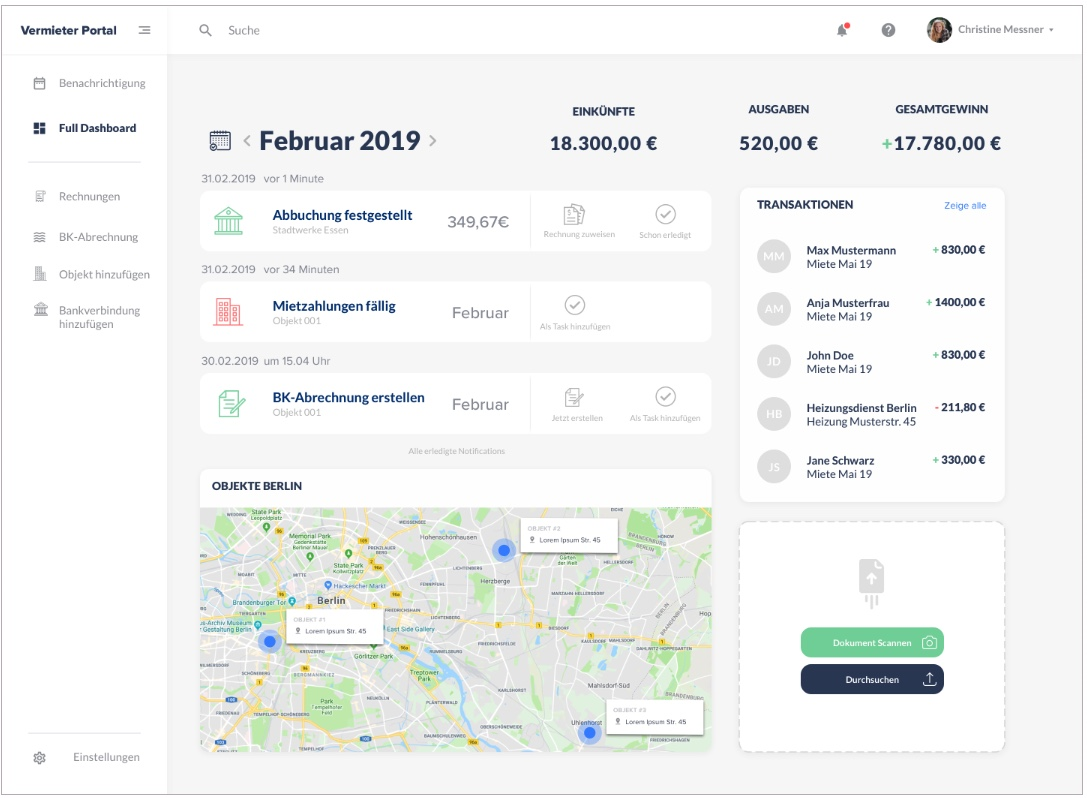
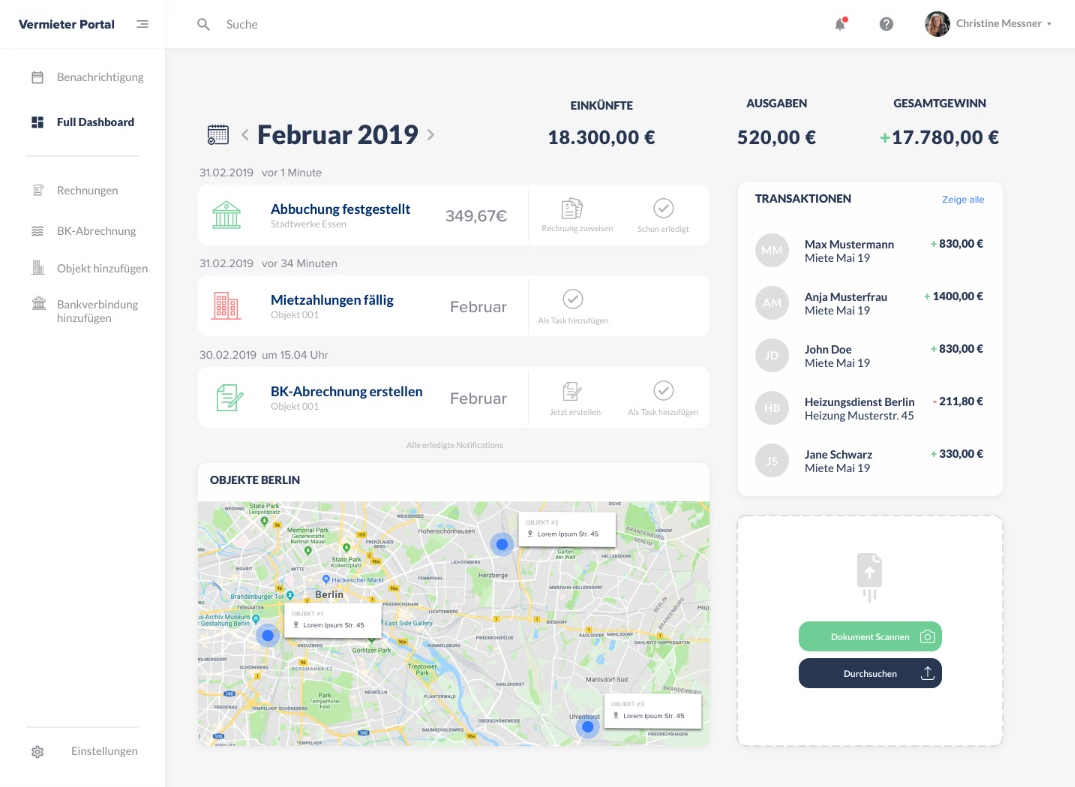
Add some shadows for distinction of elements

diff --git a/index.html b/index.html
@@ -76,13 +76,13 @@
         </div>
       <div>
 
-      <div class="row pt-4">
+      <div class="row pt-4 pb-2">
         <div class="col-10 pt-4 order-last pt-md-0 order-md-first col-md-3 offset-1 d-flex justify-content-center align-items-center">
           <h3 class="text-center d-none d-md-block">Mit dem Dashboard behalten Sie den Überblick</h3>
           <h4 class="text-center d-md-none">Mit dem Dashboard behalten Sie den Überblick</h3>
         </div>
         <div class="col-10 offset-1 col-md-6">
-          <img class="img-fluid" src="demo_screen.jpeg" alt="Dashboard">
+          <img class="img-fluid shadow" src="demo_screen.jpeg" alt="Dashboard">
         </div>
       </div>
 
@@ -94,7 +94,7 @@
         </div>
       </div>
 
-      <div class="row py-4" style="background-color: #f6f6f6">
+      <div class="row py-4 shadow" style="background-color: #f6f6f6">
         <div class="col-10 offset-1 pt-sm-0 col-sm-6 offset-sm-0 col-lg-4 mt-4 d-flex flex-column align-items-center">
           <i class="pb-4 fas fa-search-dollar fa-5x"></i>
           <h4 class="px-4 text-center">Bankanbindung</h4>
@@ -149,7 +149,7 @@
 
       <div class="row p-4 justify-content-center" id="pricing">
         <div class="col-10 col-sm-8 col-lg-3 mt-2 mt-lg-0">
-          <div class="card">
+          <div class="card shadow">
             <div class="card-body">
               <h2 class="card-title" style="font-weight: bold">LITE</h2>
               <!-- <h6 class="card-subtitle mb-2 text-muted">Card subtitle</h6>
@@ -159,11 +159,11 @@
                 <span style="font-size: 240%;">1€</span><span style="font-size: 80%">/Mo</span>
               </div>
               <div class="d-flex flex-column">
-                <span style="color: #000000"><i class="pr-1 far fa-check-circle" style="color: #249d3c"></i>Transparenz von Einnahmen und Ausgaben</span>
-                <span style="color: #000000"><i class="pr-1 far fa-check-circle" style="color: #249d3c"></i>Dashboard mit allen relevanten Informationen</span>
-                <span style="color: #999999"><i class="pr-1 far fa-circle"></i>Digitale Dokumentenablage</span>
-                <span style="color: #999999"><i class="pr-1 far fa-circle"></i>Alarme und Benachrichtigungen</span>
-                <span style="color: #999999"><i class="pr-1 far fa-circle"></i>Unterstützung bei der Betriebskostenabrechnung</span>
+                <span style="color: #000000"><i class="pr-1 far fa-check-circle" style="color: #249d3c"></i>Bankanbindung</span>
+                <span style="color: #000000"><i class="pr-1 far fa-check-circle" style="color: #249d3c"></i>Dashboard</span>
+                <span style="color: #999999"><i class="pr-1 far fa-circle"></i>Dokumentenverwaltung</span>
+                <span style="color: #999999"><i class="pr-1 far fa-circle"></i>Benachrichtungen</span>
+                <span style="color: #999999"><i class="pr-1 far fa-circle"></i>Betriebskostenabrechnung</span>
                 <span style="color: #999999"><i class="pr-1 far fa-circle"></i>Digitaler Concierge</span>
               </div>
               <p></p>
@@ -174,7 +174,7 @@
 
         
         <div class="col-10 col-sm-8 col-lg-3 mt-2 mt-lg-0">
-          <div class="card">
+          <div class="card shadow">
             <div class="card-body">
               <h2 class="card-title" style="font-weight: bold">PRO</h2>
               <!-- <h6 class="card-subtitle mb-2 text-muted">Card subtitle</h6>
@@ -184,11 +184,11 @@
                 <span style="font-size: 240%;">2,50€</span><span style="font-size: 80%">/Mo</span>
               </div>
               <div class="d-flex flex-column">
-                <span style="color: #000000"><i class="pr-1 far fa-check-circle" style="color: #249d3c"></i>Transparenz von Einnahmen und Ausgaben</span>
-                <span style="color: #000000"><i class="pr-1 far fa-check-circle" style="color: #249d3c"></i>Dashboard mit allen relevanten Informationen</span>
-                <span style="color: #000000"><i class="pr-1 far fa-check-circle" style="color: #249d3c"></i>Digitale Dokumentenablage</span>
-                <span style="color: #000000"><i class="pr-1 far fa-check-circle" style="color: #249d3c"></i>Alarme und Benachrichtigungen</span>
-                <span style="color: #999999"><i class="pr-1 far fa-circle"></i>Unterstützung bei der Betriebskostenabrechnung</span>
+                <span style="color: #000000"><i class="pr-1 far fa-check-circle" style="color: #249d3c"></i>Bankanbindung</span>
+                <span style="color: #000000"><i class="pr-1 far fa-check-circle" style="color: #249d3c"></i>Dashboard</span>
+                <span style="color: #000000"><i class="pr-1 far fa-check-circle" style="color: #249d3c"></i>Dokumentenverwaltung</span>
+                <span style="color: #000000"><i class="pr-1 far fa-check-circle" style="color: #249d3c"></i>Benachrichtigungen</span>
+                <span style="color: #999999"><i class="pr-1 far fa-circle"></i>Betriebskostenabrechnung</span>
                 <span style="color: #999999"><i class="pr-1 far fa-circle"></i>Digitaler Concierge</span>
               </div>
               <p></p>
@@ -198,7 +198,7 @@
         </div>
         
         <div class="col-10 col-sm-8 col-lg-3 mt-2 mt-lg-0">
-          <div class="card">
+          <div class="card shadow">
             <div class="card-body">
               <h2 class="card-title" style="font-weight: bold">UNLIMITED</h2>
               <!-- <h6 class="card-subtitle mb-2 text-muted">Card subtitle</h6>
@@ -208,11 +208,11 @@
                 <span style="font-size: 240%;">5€</span><span style="font-size: 80%">/Mo</span>
               </div>
               <div class="d-flex flex-column">
-                <span style="color: #000000"><i class="pr-1 far fa-check-circle" style="color: #249d3c"></i>Transparenz von Einnahmen und Ausgaben</span>
-                <span style="color: #000000"><i class="pr-1 far fa-check-circle" style="color: #249d3c"></i>Dashboard mit allen relevanten Informationen</span>
-                <span style="color: #000000"><i class="pr-1 far fa-check-circle" style="color: #249d3c"></i>Digitale Dokumentenablage</span>
-                <span style="color: #000000"><i class="pr-1 far fa-check-circle" style="color: #249d3c"></i>Alarme und Benachrichtigungen</span>
-                <span style="color: #000000"><i class="pr-1 far fa-check-circle" style="color: #249d3c"></i>Unterstützung bei der Betriebskostenabrechnung</span>
+                <span style="color: #000000"><i class="pr-1 far fa-check-circle" style="color: #249d3c"></i>Bankanbindung</span>
+                <span style="color: #000000"><i class="pr-1 far fa-check-circle" style="color: #249d3c"></i>Dashboard</span>
+                <span style="color: #000000"><i class="pr-1 far fa-check-circle" style="color: #249d3c"></i>Dokumentenverwaltung</span>
+                <span style="color: #000000"><i class="pr-1 far fa-check-circle" style="color: #249d3c"></i>Benachrichtigungen</span>
+                <span style="color: #000000"><i class="pr-1 far fa-check-circle" style="color: #249d3c"></i>Betriebskostenabrechnung</span>
                 <span style="color: #000000"><i class="pr-1 far fa-check-circle" style="color: #249d3c"></i>Digitaler Concierge</span>
               </div>
               <p></p>
